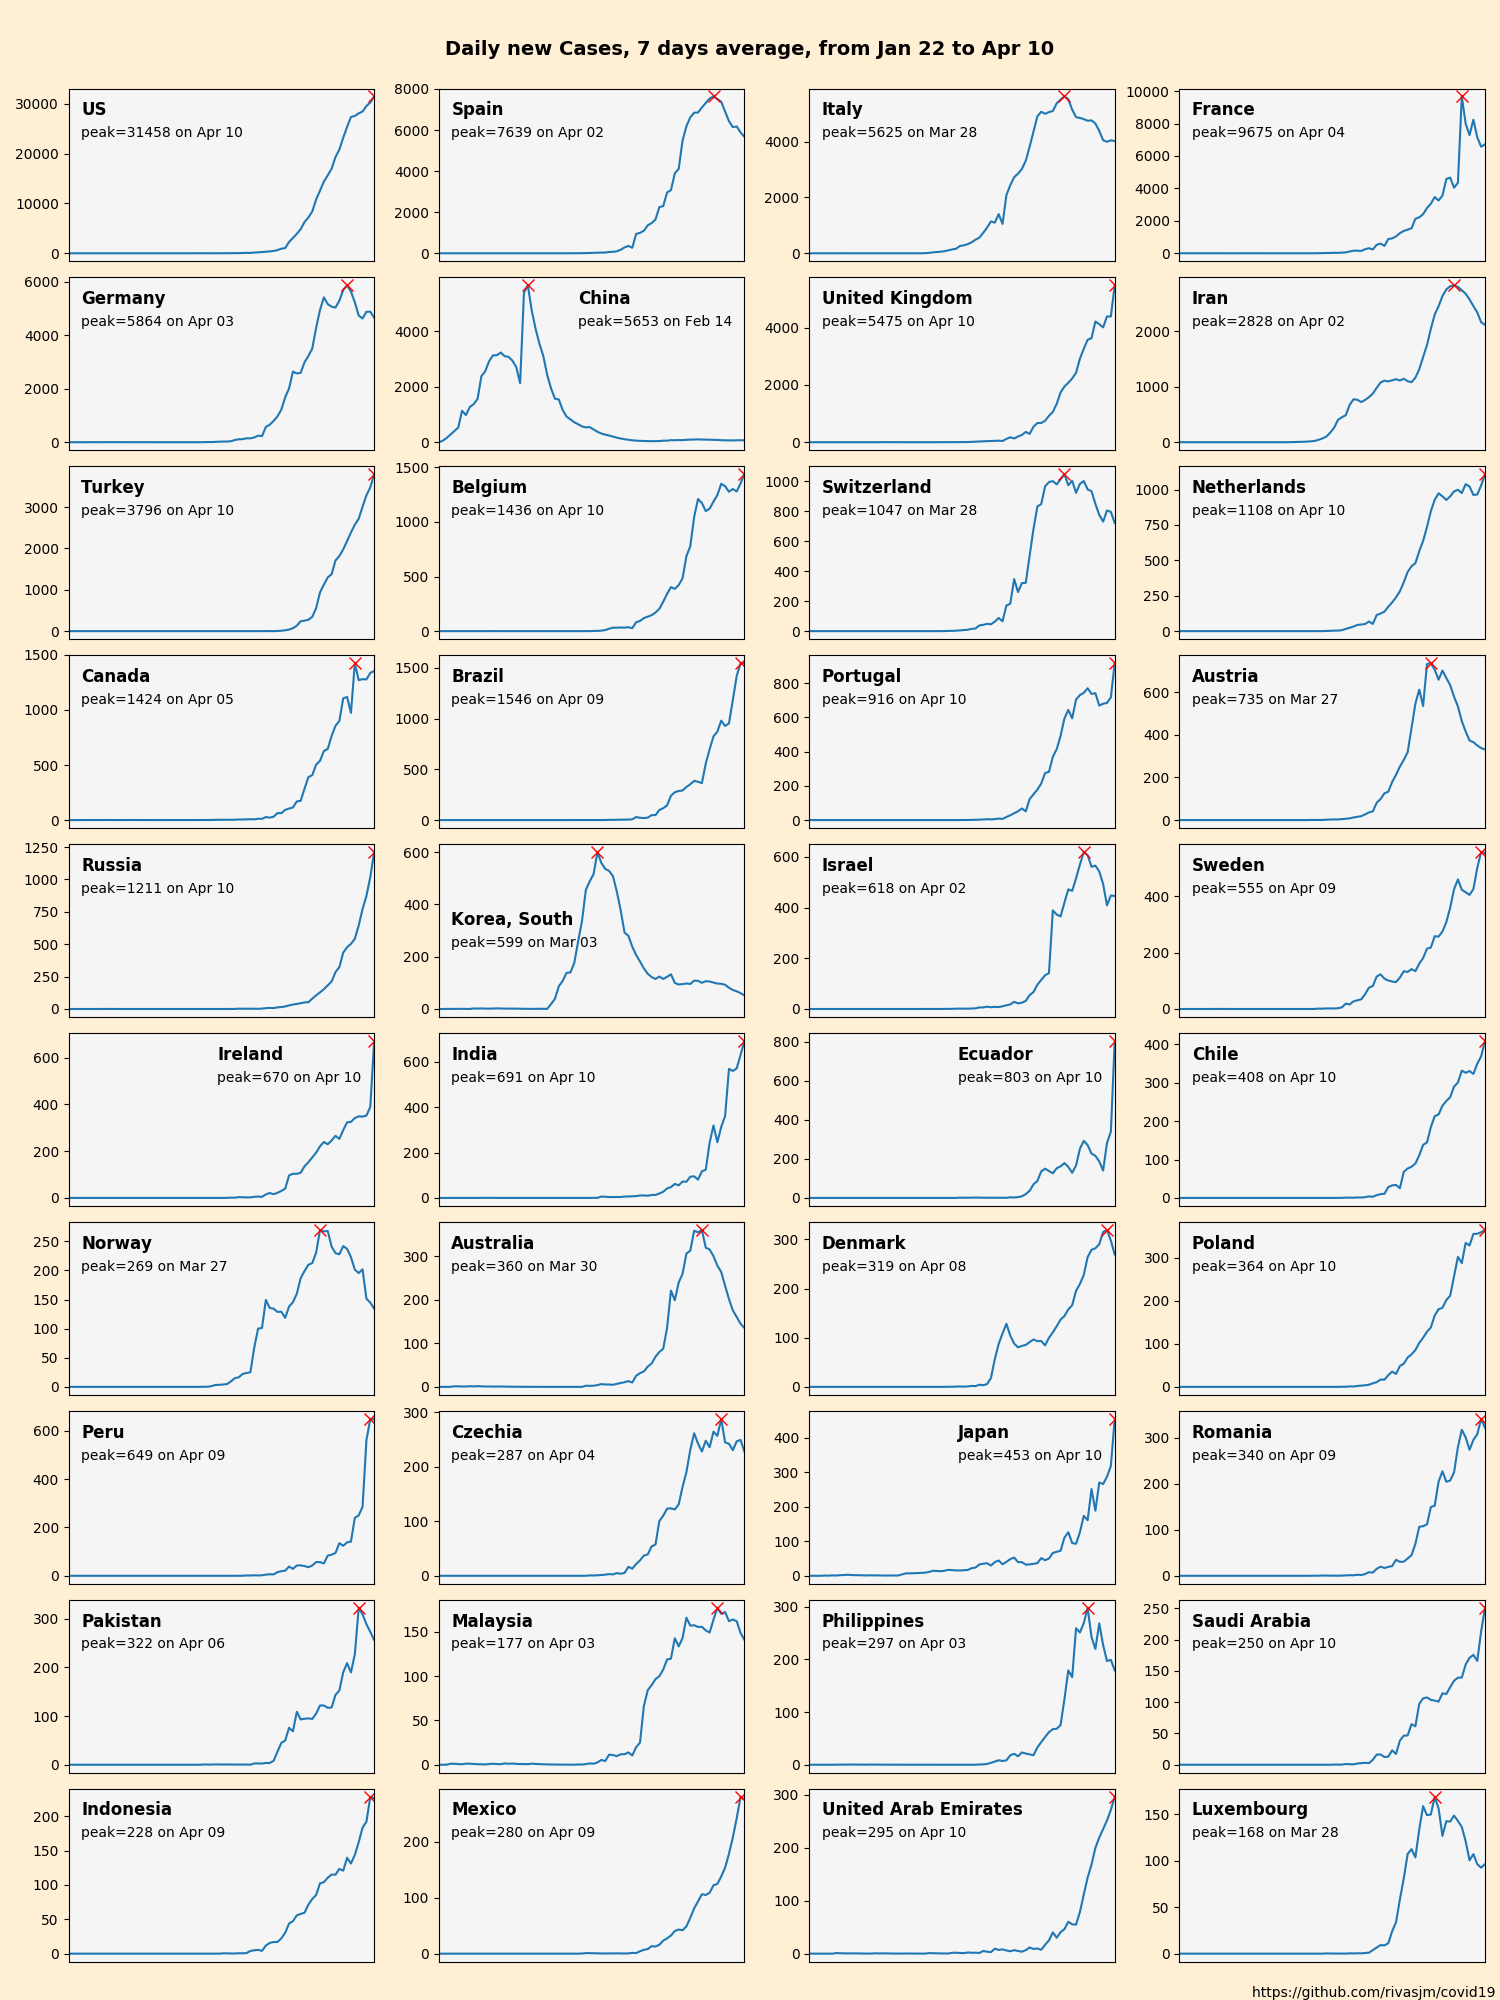
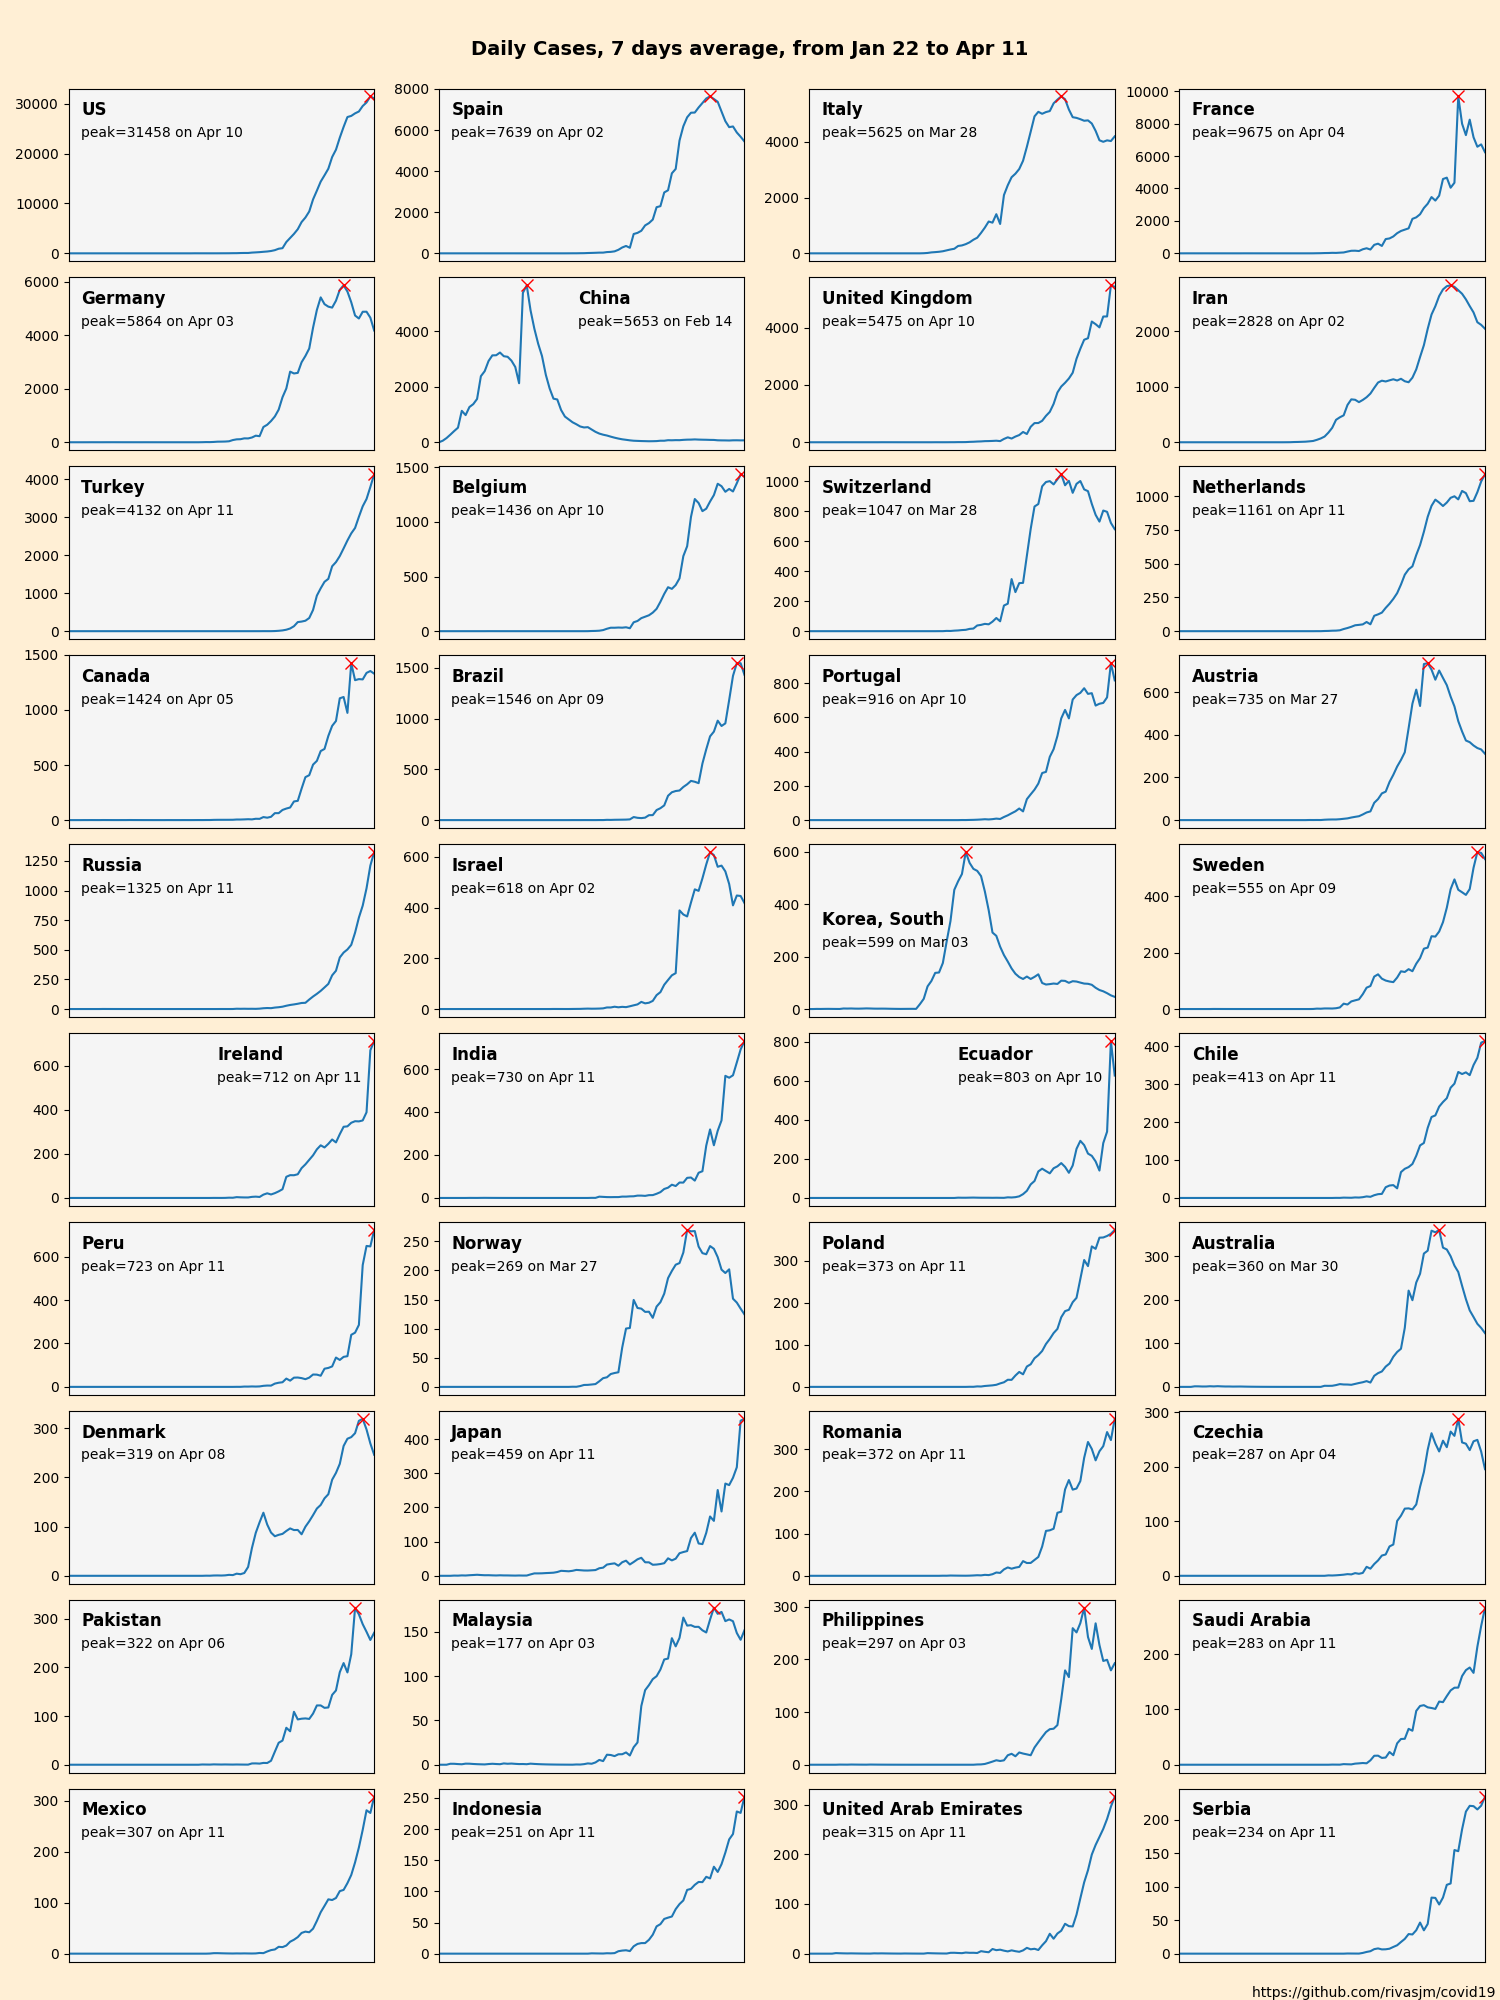
update

diff --git a/charts.py b/charts.py
@@ -70,7 +70,7 @@ def grid(df: pd.DataFrame, locs, type: Column,
 
     dates = [time_repr(dt) for dt in get_dates(df)]
     fig.suptitle('{}{}{}, from {} to {}'.format(
-        'Daily new ' if increment else '',
+        'Daily ' if increment else '',
         type.label,
         ', {} days average'.format(average) if average > 1 else '',
         dates[0],
@@ -93,7 +93,9 @@ def comparison(df: pd.DataFrame, locs, type: Column, threshold,
 
     for i, location in enumerate(locs):
         series = get_series(df, location, type.label, increment, average)
-        series[series > threshold].reset_index()[type.label].plot(ax=ax)
+        series = series[series > threshold].reset_index()[type.label]
+        series.plot(ax=ax)
+        print(location, series)
 
     fig.savefig(out_name, facecolor=fig.get_facecolor())
 
@@ -116,7 +118,7 @@ def build_world():
     grid(data, locations, Column.CONFIRMED, 15, 20, 'world_daily_confirmed.png', increment=True, average=7)
     grid(data, locations, Column.DEATHS, 15, 20, 'world_daily_deaths.png', increment=True, average=7)
 
-    # comparison(data, locations[:10], Column.CONFIRMED, 100, 'test.png', increment=True, average=7)
+    # comparison(data, locations[:10], Column.DEATHS, 5, 'test.png', increment=True, average=7)
 
 
 if __name__ == '__main__':
